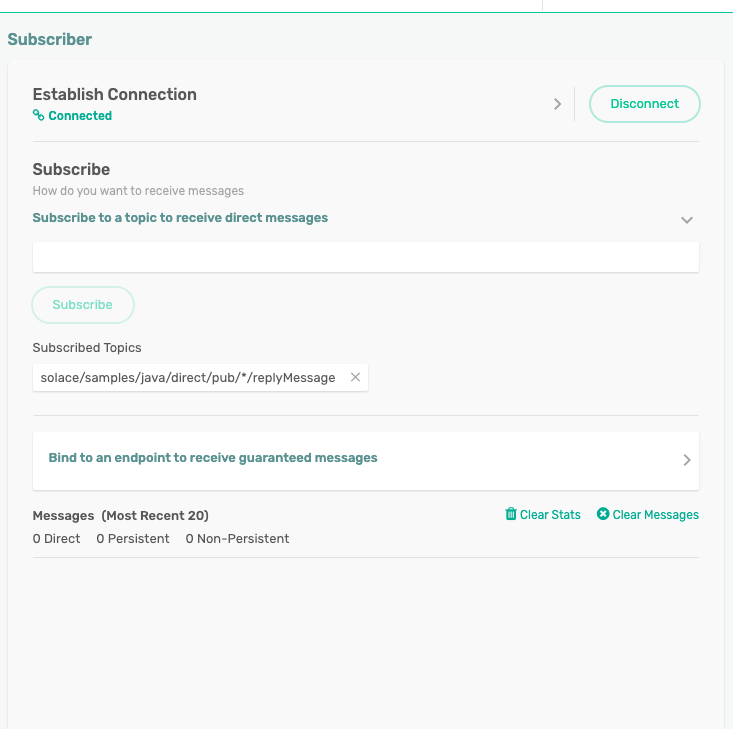
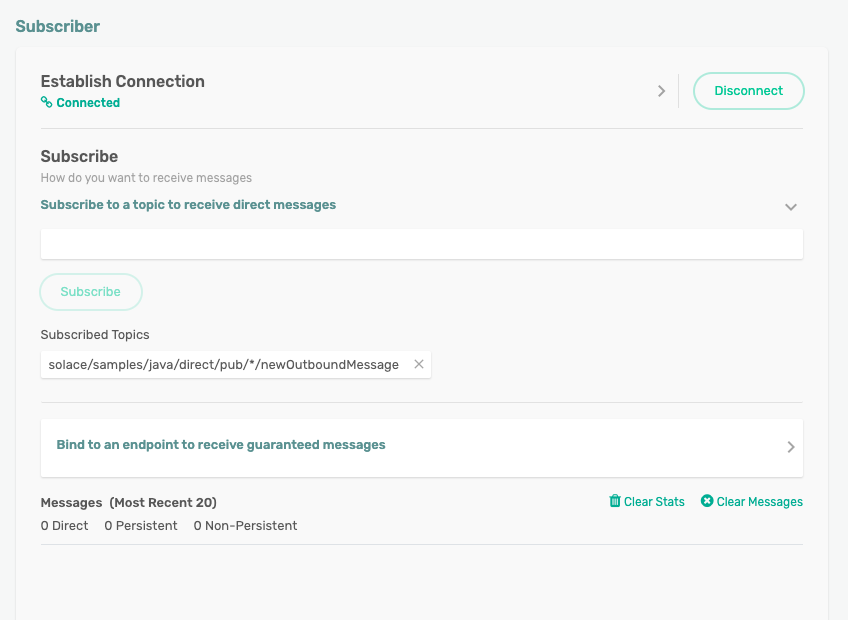
Updated for review comments from Marc

diff --git a/spring-boot-processor/src/main/java/com/solace/samples/spring/boot/processor/SolaceProcessor.java b/spring-boot-processor/src/main/java/com/solace/samples/spring/boot/processor/SolaceProcessor.java
@@ -10,7 +10,7 @@ import com.solace.messaging.receiver.DirectMessageReceiver;
 import com.solace.messaging.receiver.MessageReceiver;
 import com.solace.messaging.resources.Topic;
 import com.solace.messaging.resources.TopicSubscription;
-import com.solace.samples.spring.boot.config.SolaceBinderConfigProperties;
+import com.solace.samples.spring.boot.config.SolaceConfigProperties;
 import lombok.extern.slf4j.Slf4j;
 import org.springframework.beans.factory.annotation.Autowired;
 import org.springframework.boot.context.event.ApplicationReadyEvent;
@@ -25,14 +25,14 @@ import java.util.Properties;
 public class SolaceProcessor {
 
     @Autowired
-    private SolaceBinderConfigProperties configProperties;
+    private SolaceConfigProperties configProperties;
 
     private DirectMessagePublisher directMessagePublisher;
     private DirectMessageReceiver directMessageReceiver;
     private OutboundMessageBuilder messageBuilder;
     private MessagingService messagingService;
 
-    private final String outboundMessageTopicNameSuffix = "/replyMessage";
+    private final String outboundMessageTopicNameSuffix = "/newOutboundMessage";
 
     @EventListener
     public void onApplicationEvent(final ApplicationReadyEvent applicationReadyEvent) {
@@ -40,44 +40,47 @@ public class SolaceProcessor {
         //1. Set up the properties including username, password, vpnHostUrl and other control parameters.
         final Properties properties = setupPropertiesForConnection();
 
+        //2. Create the MessagingService object and establishes the connection with the Solace event broker
         messagingService = MessagingService.builder(ConfigurationProfile.V1).fromProperties(properties).build();
-        messagingService.connect();  // blocking connect
+        messagingService.connect();  // This is a blocking connect action
+
+        //3. Register event handlers and callbacks for connection error handling.
         setupConnectivityHandlingInMessagingService(messagingService);
 
-        // build the publisher object
-        directMessagePublisher = messagingService.createDirectMessagePublisherBuilder()
-                .onBackPressureWait(1)
-                .build();
+        //4. Build and start the publisher object
+        directMessagePublisher = messagingService.createDirectMessagePublisherBuilder().onBackPressureWait(1).build();
+        // can be called for ACL violations
+        directMessagePublisher.setPublishFailureListener(e -> System.out.println("### FAILED PUBLISH " + e));
         directMessagePublisher.start();
 
-        // build the Direct receiver object
-        directMessageReceiver = messagingService.createDirectMessageReceiverBuilder()
-                .withSubscriptions(TopicSubscription.of(configProperties.getTopicName()))
-                .build();
+        //5. Build and start the receiver object
+        directMessageReceiver = messagingService.createDirectMessageReceiverBuilder().withSubscriptions(TopicSubscription.of(configProperties.getTopicName())).build();
+        directMessageReceiver.setReceiveFailureListener(failedReceiveEvent -> System.out.println("### FAILED RECEIVE EVENT " + failedReceiveEvent));
         directMessageReceiver.start();
 
+        //6. Build the handler that will be executed for each incoming event
         messageBuilder = messagingService.messageBuilder();
+        //7. Build the messageBuilder instance
         final MessageReceiver.MessageHandler messageHandler = buildMessageHandler();
+        //8. Receive events in an async/non-blocking manner
         directMessageReceiver.receiveAsync(messageHandler);
     }
 
     private MessageReceiver.MessageHandler buildMessageHandler() {
-        return (
-                inboundMessage -> {
-                    // how to "process" the incoming message? maybe do a DB lookup? add some additional properties? or change the payload?
-                    final String inboundTopic = inboundMessage.getDestinationName();
-                    log.info("Processing message on incoming topic :{} with payload:{}", inboundTopic, inboundMessage.getPayloadAsString());
-                    final String upperCaseMessage = inboundTopic.toUpperCase();  // as a silly example of "processing"
-                    final OutboundMessage outboundMessage = messageBuilder.build(upperCaseMessage);  // build TextMessage to send
-                    final String outboundTopic = inboundTopic + outboundMessageTopicNameSuffix;
-                    try {
-                        log.info("Posting outbound reply message on topic:{} with payload:{}", outboundTopic, outboundMessage.getPayloadAsString());
-                        directMessagePublisher.publish(outboundMessage, Topic.of(outboundTopic));
-                    } catch (RuntimeException e) {  // threw from send(), only thing that is throwing here
-                        log.error("Runtime exception encountered while publishing message to topic :{}. Error is :{}", outboundTopic, e);
-                    }
-                }
-        );
+        return (inboundMessage -> {
+            // how to "process" the incoming message? maybe do a DB lookup? add some additional properties? or change the payload?
+            final String inboundTopic = inboundMessage.getDestinationName();
+            log.info("Processing message on incoming topic :{} with payload:{}", inboundTopic, inboundMessage.getPayloadAsString());
+            final String upperCaseMessage = inboundTopic.toUpperCase();  // Simple example of "processing" of an event
+            final OutboundMessage outboundMessage = messageBuilder.build(upperCaseMessage);  // build the payload to be set in the outbound event.
+            final String outboundTopic = inboundTopic + outboundMessageTopicNameSuffix; // Define the topic name (dynamic if required) for the outbound event
+            try {
+                log.info("Posting outbound message on topic:{} with payload:{}", outboundTopic, outboundMessage.getPayloadAsString());
+                directMessagePublisher.publish(outboundMessage, Topic.of(outboundTopic));
+            } catch (RuntimeException e) {  // threw from send(), only thing that is throwing here
+                log.error("Runtime exception encountered while publishing message to topic :{}. Error is :{}", outboundTopic, e);
+            }
+        });
     }
 
     private static void setupConnectivityHandlingInMessagingService(final MessagingService messagingService) {
@@ -96,7 +99,8 @@ public class SolaceProcessor {
         properties.setProperty(SolaceProperties.TransportLayerProperties.CONNECTION_RETRIES_PER_HOST, configProperties.getConnectionRetriesPerHost());
         return properties;
     }
-
+    //This method will be called once just before this bean is removed from the application context
+    // and can be used to do housekeeping activities like publisher termination and messagingService disconnection
     @PreDestroy
     public void houseKeepingOnBeanDestroy() {
         log.info("The bean is getting destroyed, doing housekeeping activities");

diff --git a/spring-boot-api-producer/src/main/java/com/solace/samples/spring/boot/service/publisher/SolacePublisher.java b/spring-boot-api-producer/src/main/java/com/solace/samples/spring/boot/service/publisher/SolacePublisher.java
@@ -7,7 +7,7 @@ import com.solace.messaging.publisher.DirectMessagePublisher;
 import com.solace.messaging.publisher.OutboundMessage;
 import com.solace.messaging.publisher.OutboundMessageBuilder;
 import com.solace.messaging.resources.Topic;
-import com.solace.samples.spring.boot.config.SolaceBinderConfigProperties;
+import com.solace.samples.spring.boot.config.SolaceConfigProperties;
 import com.solace.samples.spring.common.SensorReading;
 import lombok.extern.slf4j.Slf4j;
 import org.springframework.beans.factory.annotation.Autowired;
@@ -23,7 +23,7 @@ import java.util.Properties;
 public class SolacePublisher {
 
     @Autowired
-    private SolaceBinderConfigProperties configProperties;
+    private SolaceConfigProperties configProperties;
     private DirectMessagePublisher publisher;
     private OutboundMessageBuilder messageBuilder;
     private MessagingService messagingService;
@@ -34,23 +34,30 @@ public class SolacePublisher {
         //1. Set up the properties including username, password, vpnHostUrl and other control parameters.
         final Properties properties = setupPropertiesForConnection();
 
+        //2. Create the MessagingService object and establishes the connection with the Solace event broker
         messagingService = MessagingService.builder(ConfigurationProfile.V1).fromProperties(properties).build();
-        messagingService.connect();  // blocking connect
+        messagingService.connect();  // This is a blocking connect action
+
+        //3. Register event handlers and callbacks for connection error handling.
         setupConnectivityHandlingInMessagingService(messagingService);
 
+        //4. Build and start the publisher object
         publisher = messagingService.createDirectMessagePublisherBuilder()
                 .onBackPressureWait(1)
                 .build();
+        // can be called for ACL violations
+        publisher.setPublishFailureListener(e -> System.out.println("### FAILED PUBLISH " + e));
         publisher.start();
 
-        // can be called for ACL violations,
-        publisher.setPublishFailureListener(e -> System.out.println("### FAILED PUBLISH " + e));
+        //5. Build the messageBuilder instance
         messageBuilder = messagingService.messageBuilder();
     }
 
     public void publishMessage(final SensorReading sensorReading) {
         try {
+            //Build the message according to business requirement
             final OutboundMessage message = messageBuilder.build(sensorReading.toString());  // binary payload message
+            //Publish the message with the required topic (if required dynamic) identifier.
             publisher.publish(message, Topic.of((configProperties.getTopicName() + sensorReading.getSensorID())));
         } catch (final RuntimeException runtimeException) {
             log.error("Error encountered while publishing event, exception :", runtimeException);
@@ -74,6 +81,8 @@ public class SolacePublisher {
         return properties;
     }
 
+    //This method will be called once just before this bean is removed from the application context
+    // and can be used to do housekeeping activities like publisher termination and messagingService disconnection
     @PreDestroy
     public void houseKeepingOnBeanDestroy() {
         log.info("The bean is getting destroyed, doing housekeeping activities");

diff --git a/spring-boot-consumer/src/main/java/com/solace/samples/spring/boot/consumer/SolaceConsumer.java b/spring-boot-consumer/src/main/java/com/solace/samples/spring/boot/consumer/SolaceConsumer.java
@@ -6,7 +6,7 @@ import com.solace.messaging.config.profile.ConfigurationProfile;
 import com.solace.messaging.receiver.DirectMessageReceiver;
 import com.solace.messaging.receiver.MessageReceiver;
 import com.solace.messaging.resources.TopicSubscription;
-import com.solace.samples.spring.boot.config.SolaceBinderConfigProperties;
+import com.solace.samples.spring.boot.config.SolaceConfigProperties;
 import lombok.extern.slf4j.Slf4j;
 import org.springframework.beans.factory.annotation.Autowired;
 import org.springframework.boot.context.event.ApplicationReadyEvent;
@@ -21,7 +21,7 @@ import java.util.Properties;
 public class SolaceConsumer {
 
     @Autowired
-    private SolaceBinderConfigProperties configProperties;
+    private SolaceConfigProperties configProperties;
     private DirectMessageReceiver directMessageReceiver;
     private MessagingService messagingService;
 
@@ -31,16 +31,21 @@ public class SolaceConsumer {
         //1. Set up the properties including username, password, vpnHostUrl and other control parameters.
         final Properties properties = setupPropertiesForConnection();
 
+        //2. Create the MessagingService object and establishes the connection with the Solace event broker
         messagingService = MessagingService.builder(ConfigurationProfile.V1).fromProperties(properties).build();
-        messagingService.connect();  // blocking connect
+        messagingService.connect();  // This is a blocking connect action
         setupConnectivityHandlingInMessagingService(messagingService);
 
+        //3. Build and start the receiver object
         directMessageReceiver = messagingService.createDirectMessageReceiverBuilder()
                 .withSubscriptions(TopicSubscription.of(configProperties.getTopicName()))
                 .build();
+        directMessageReceiver.setReceiveFailureListener(failedReceiveEvent -> System.out.println("### FAILED RECEIVE EVENT " + failedReceiveEvent));
         directMessageReceiver.start();
 
+        //4. Build the handler that will be executed for each incoming event
         final MessageReceiver.MessageHandler messageHandler = buildMessageHandler();
+        //5. Receive events in an async/non-blocking manner
         directMessageReceiver.receiveAsync(messageHandler);
     }
 
@@ -70,6 +75,8 @@ public class SolaceConsumer {
         return properties;
     }
 
+    //This method will be called once just before this bean is removed from the application context
+    // and can be used to do housekeeping activities like publisher termination and messagingService disconnection
     @PreDestroy
     public void houseKeepingOnBeanDestroy() {
         log.info("The bean is getting destroyed, doing housekeeping activities");

diff --git a/spring-boot-api-producer/src/main/java/com/solace/samples/spring/boot/config/SolaceConfigProperties.java b/spring-boot-api-producer/src/main/java/com/solace/samples/spring/boot/config/SolaceConfigProperties.java
@@ -9,7 +9,7 @@ import org.springframework.context.annotation.Configuration;
 @ConfigurationProperties(prefix = "solace")
 @Getter
 @Setter
-public class SolaceBinderConfigProperties {
+public class SolaceConfigProperties {
     private String hostUrl;
     private String vpnName;
     private String userName;

diff --git a/spring-boot-consumer/src/main/java/com/solace/samples/spring/boot/config/SolaceConfigProperties.java b/spring-boot-consumer/src/main/java/com/solace/samples/spring/boot/config/SolaceConfigProperties.java
@@ -9,7 +9,7 @@ import org.springframework.context.annotation.Configuration;
 @ConfigurationProperties(prefix = "solace")
 @Getter
 @Setter
-public class SolaceBinderConfigProperties {
+public class SolaceConfigProperties {
     private String hostUrl;
     private String vpnName;
     private String userName;

diff --git a/spring-boot-processor/src/main/java/com/solace/samples/spring/boot/config/SolaceConfigProperties.java b/spring-boot-processor/src/main/java/com/solace/samples/spring/boot/config/SolaceConfigProperties.java
@@ -9,7 +9,7 @@ import org.springframework.context.annotation.Configuration;
 @ConfigurationProperties(prefix = "solace")
 @Getter
 @Setter
-public class SolaceBinderConfigProperties {
+public class SolaceConfigProperties {
     private String hostUrl;
     private String vpnName;
     private String userName;

diff --git a/README.md b/README.md
@@ -21,8 +21,8 @@ The Spring Tutorials require that you have access to a PubSub+ Service. You can 
 
 ## Contents
 
-This repository contains code and matching tutorial walk through for different basic scenarios using the new Java API (not the JCSMP)
-It is best to view the associated [tutorials home page](https://github.com/SolaceSamples/solace-samples-springboot).
+This repository contains code and matching tutorial walk through for different basic scenarios using the Solace PubSub+ Messaging API for Java (not the JCSMP)
+It is best to view the associated [tutorials home page](https://tutorials.solace.dev/).
 
 ## Prerequisites
 
@@ -41,7 +41,7 @@ cd spring-boot-consumer
 mvn clean spring-boot:run
 ```
 
-See the individual tutorials linked from the [tutorials home page](https://github.com/SolaceSamples/solace-samples-springboot/) for full details which can walk you through the samples, what they do, and how to correctly run them to explore Spring
+See the individual code samples linked from the [springboot code samples](https://github.com/SolaceSamples/solace-samples-springboot/) for full details which can walk you through the samples, what they do, and how to correctly run them to explore Spring
 
 ## Exploring the Samples
 

diff --git a/spring-boot-datamodel/README.md b/spring-boot-datamodel/README.md
@@ -1,7 +1,7 @@
 ## Contents
 
 This project contains the Java POJO models which have been used in the solace-samples-springboot
-It is best to view the associated [tutorials home page](https://github.com/SolaceSamples/solace-samples-springboot).
+It is best to view the associated [Springboot code samples home page](https://github.com/SolaceSamples/solace-samples-springboot).
 
 ## Prerequisites
 
@@ -11,7 +11,7 @@ cd spring-boot-datamodel
 mvn clean install
 ```
 
-See the individual tutorials linked from the [tutorials home page](https://github.com/SolaceSamples/solace-samples-springboot/) for full details which can walk you through the samples, what they do, and how to correctly run them to explore Spring
+See the individual code samples linked from the [Springboot code samples home page](https://github.com/SolaceSamples/solace-samples-springboot/) for full details which can walk you through the samples, what they do, and how to correctly run them to explore Spring
 
 ## Exploring the Samples
 

diff --git a/spring-boot-processor/README.md b/spring-boot-processor/README.md
@@ -1,8 +1,7 @@
 ## Contents
 
 This sample builds a Springboot based application that acts as a processor of events.</br>
-It consumes an incoming event on a subscribed topic and in turn publishes a new event on a separate topic using the new
-Java API.
+It consumes an incoming event on a subscribed topic and in turn publishes a new event on a separate topic using the Solace PubSub+ Messaging API for Java (not JCSMP).
 
 ## Prerequisites
 
@@ -13,8 +12,7 @@ cd spring-boot-datamodel
 mvn clean install
 ```
 
-See the individual tutorials linked from
-the [tutorials home page](https://github.com/SolaceSamples/solace-samples-springboot/) for full details which can walk
+See the individual code samples linked from the [Springboot code samples](https://github.com/SolaceSamples/solace-samples-springboot/) for full details which can walk
 you through the samples, what they do, and how to correctly run them.
 
 ## Exploring the Sample

diff --git a/spring-boot-api-producer/README.md b/spring-boot-api-producer/README.md
@@ -1,7 +1,6 @@
 ## Contents
 
-This sample exposes a simple Springboot based REST API which then publishes an event to a Solace topic using the new
-Java API.
+This sample exposes a simple Springboot based REST API which then publishes an event to a Solace topic using the Solace PubSub+ Messaging API for Java (not JCSMP).
 
 ## Prerequisites
 
@@ -11,9 +10,7 @@ Install the data model
 cd spring-boot-datamodel
 mvn clean install
 ```
-
-See the individual tutorials linked from
-the [tutorials home page](https://github.com/SolaceSamples/solace-samples-springboot/) for full details which can walk
+See the individual code samples linked from the [Springboot code samples home page](https://github.com/SolaceSamples/solace-samples-springboot/) for full details which can walk
 you through the samples, what they do, and how to correctly run them to explore Spring
 
 ## Exploring the Samples

diff --git a/spring-boot-consumer/README.md b/spring-boot-consumer/README.md
@@ -1,8 +1,7 @@
 ## Contents
 
 This sample builds a simple Springboot based application consumes an event that is published to a Solace topic using the
-new
-Java API.
+Solace PubSub+ Messaging API for Java (not JCSMP).
 
 ## Prerequisites
 
@@ -13,8 +12,7 @@ cd spring-boot-datamodel
 mvn clean install
 ```
 
-See the individual tutorials linked from
-the [tutorials home page](https://github.com/SolaceSamples/solace-samples-springboot/) for full details which can walk
+See the individual code samples linked from the [Springboot code samples home page](https://github.com/SolaceSamples/solace-samples-springboot/) for full details which can walk
 you through the samples, what they do, and how to correctly run them to explore Spring
 
 ## Exploring the Samples
